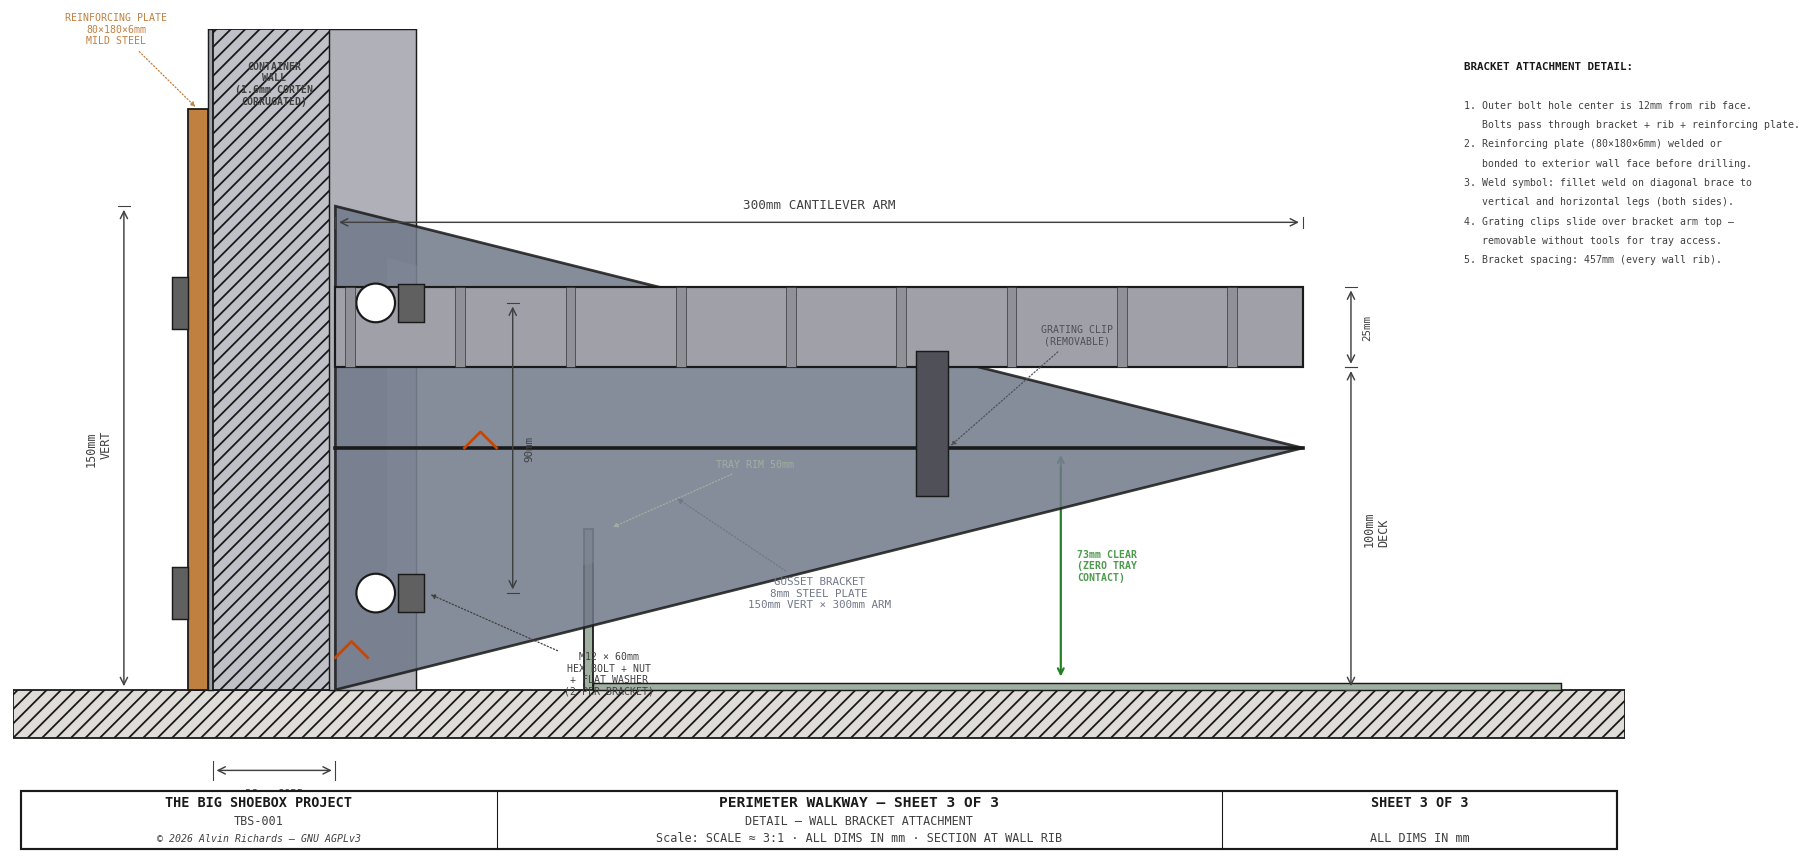
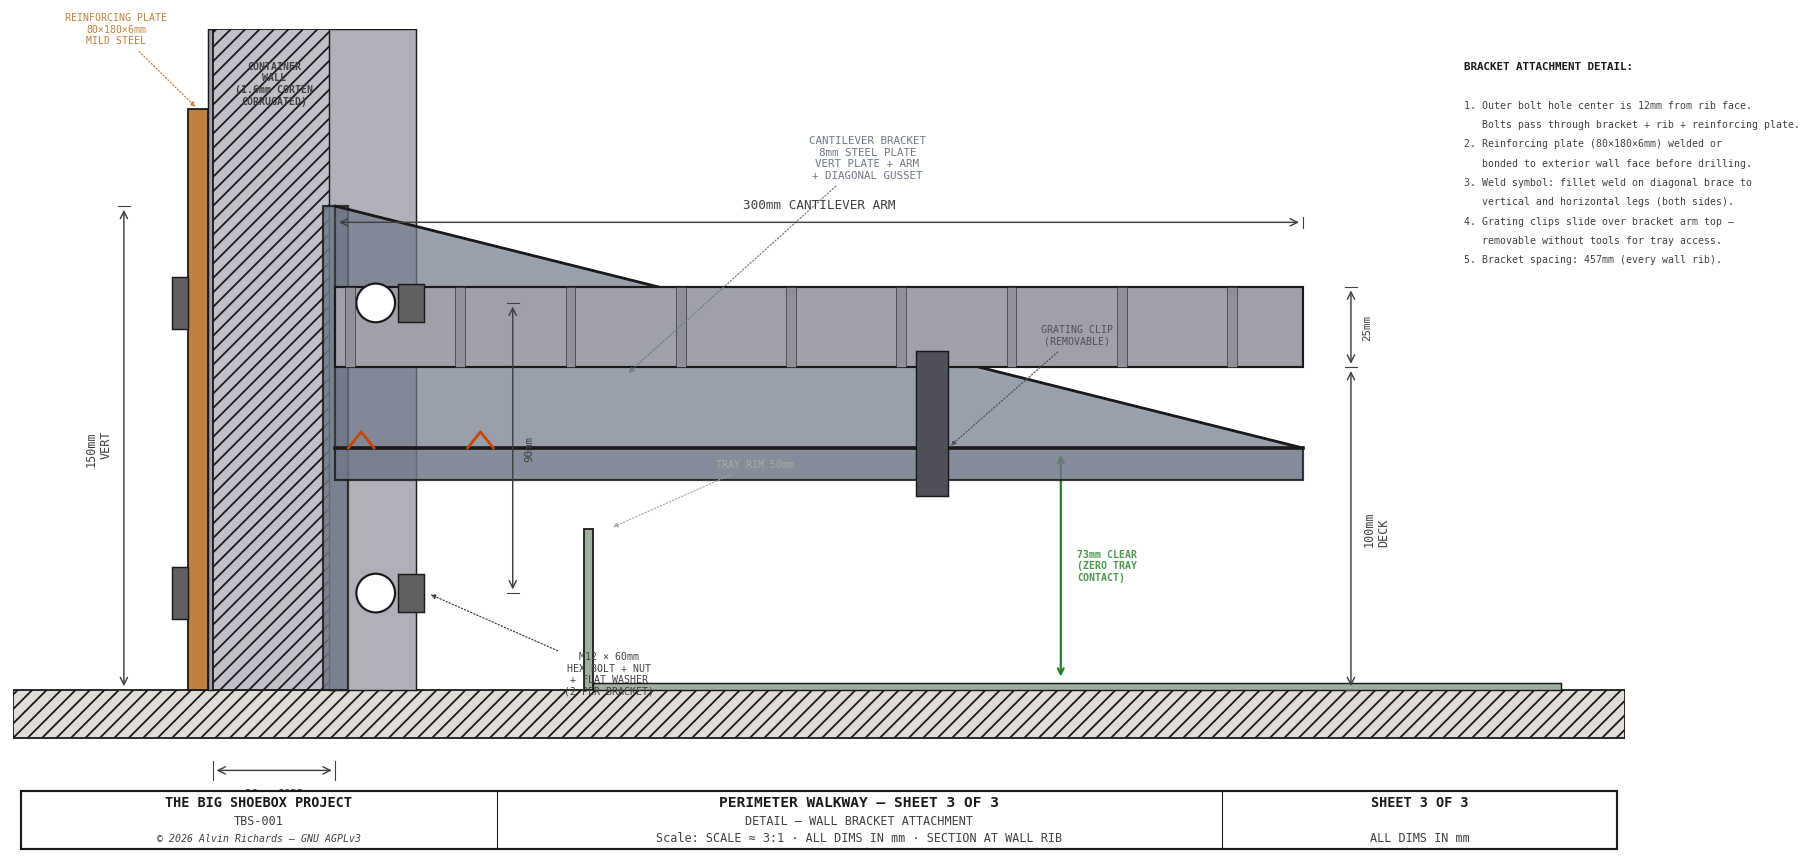
Fix walkway bracket diagram: 3-piece design clears tray rim
The triangular gusset was drawn as a single triangle from floor level,
which visually (and physically) cut through the tray rim. Replaced with
correct 3-piece bracket: vertical mounting plate on wall, horizontal arm
at Z=75mm (above 50mm rim), diagonal gusset entirely above the arm.
Nothing below the arm extends past the wall face.

Changed region(s): [[0.1545, 0.25, 0.7417, 0.8125], [0.4327, 0.1562, 0.5254, 0.2188]]

diff --git a/generate_walkway_diagram.py b/generate_walkway_diagram.py
@@ -150,39 +150,50 @@ def sheet1():
             ha="left", va="bottom", fontsize=5.5, color="#4080C0",
             **FONT, alpha=0.7, zorder=15)
 
-    # ── Cantilever bracket (triangular gusset) ───────────────────────────────
-    # Bracket profile: right-triangle gusset bolted to wall rib
-    # - Vertical leg: from Z=0 to Z=BRKT_VERT (150mm) on wall face
-    # - Horizontal arm: from Yd=0 to Yd=WALKWAY_W (300mm) at Z=BRKT_ARM_H (75mm)
-    # - Diagonal brace: from (0, BRKT_VERT) to (WALKWAY_W, BRKT_ARM_H)
-    # Draw as a filled triangle with plate thickness shown
+    # ── Cantilever bracket (3-piece: vertical plate + arm + diagonal gusset) ──
+    # The bracket is three welded pieces:
+    #   1. Vertical mounting plate: flat against wall, Z=0 to BRKT_VERT (150mm)
+    #      — bolted to wall rib, does NOT project into tray zone
+    #   2. Horizontal arm: welded to vertical plate at Z=BRKT_ARM_H (75mm),
+    #      projects inward 300mm — ABOVE the 50mm tray rim
+    #   3. Diagonal gusset: from top of vertical plate (Z=150) to arm tip (Z=75)
+    #      — entirely above the arm, well clear of tray rim
 
     brkt_arm_z = BRKT_ARM_H  # = 75mm (top of horizontal arm = grate support)
+    ARM_DEPTH  = BRKT_T + 2  # arm cross-section depth shown (visual thickness)
 
-    # Outer triangle (bracket profile)
-    tri_verts = [
-        (sx(0), sy(0)),                          # bottom at wall
-        (sx(0), sy(BRKT_VERT)),                  # top of vertical leg on wall
-        (sx(WALKWAY_W), sy(brkt_arm_z)),          # tip of horizontal arm
-    ]
-    ax.add_patch(Polygon(tri_verts, closed=True,
-                         fc=C_BRKT, ec=C_OUT, lw=1.5, zorder=6, alpha=0.8))
+    # 1. Vertical mounting plate (flat rectangle on wall face)
+    ax.add_patch(Rectangle((sx(-BRKT_T / 2), sy(0)),
+                            sx(BRKT_T), sy(BRKT_VERT),
+                            fc=C_BRKT, ec=C_OUT, lw=1.2, zorder=6, alpha=0.85))
 
-    # Horizontal arm top surface (where grate sits) — emphasize with thicker line
+    # 2. Horizontal arm (projects inward at Z=brkt_arm_z)
+    ax.add_patch(Rectangle((sx(0), sy(brkt_arm_z - ARM_DEPTH)),
+                            sx(WALKWAY_W), sy(ARM_DEPTH),
+                            fc=C_BRKT, ec=C_OUT, lw=1.2, zorder=6, alpha=0.85))
+    # Arm top surface (where grate sits) — emphasize
     ax.plot([sx(0), sx(WALKWAY_W)], [sy(brkt_arm_z), sy(brkt_arm_z)],
             color=C_OUT, lw=2.0, zorder=7)
 
-    # Plate thickness indication — inner triangle (cutout to show it's plate, not solid)
-    inset = BRKT_T * 2  # visual inset for clarity
-    inner_verts = [
-        (sx(inset), sy(inset + 10)),
-        (sx(inset), sy(BRKT_VERT - inset)),
-        (sx(WALKWAY_W - inset * 3), sy(brkt_arm_z)),
+    # 3. Diagonal gusset brace (triangle ABOVE the arm, from wall top to arm tip)
+    gusset_verts = [
+        (sx(0), sy(BRKT_VERT)),               # top of vertical plate
+        (sx(0), sy(brkt_arm_z)),               # where arm meets wall
+        (sx(WALKWAY_W), sy(brkt_arm_z)),       # arm tip
     ]
-    ax.add_patch(Polygon(inner_verts, closed=True,
-                         fc="#8890A0", ec="none", zorder=6, alpha=0.3))
+    ax.add_patch(Polygon(gusset_verts, closed=True,
+                         fc=C_BRKT, ec=C_OUT, lw=1.2, zorder=6, alpha=0.7))
+    # Diagonal edge emphasis
+    ax.plot([sx(0), sx(WALKWAY_W)], [sy(BRKT_VERT), sy(brkt_arm_z)],
+            color=C_OUT, lw=1.5, zorder=7)
 
-    # Bolt holes on vertical leg (2× M12, centered on rib)
+    # Weld symbols at joints (small triangles)
+    for wyd, wz in [(BRKT_T, brkt_arm_z), (WALKWAY_W * 0.15, brkt_arm_z)]:
+        ax.plot([sx(wyd - 4), sx(wyd), sx(wyd + 4)],
+                [sy(wz), sy(wz + 5), sy(wz)],
+                color="#CC4400", lw=1.5, zorder=8)
+
+    # Bolt holes on vertical plate (2× M12)
     bolt_z1 = 30
     bolt_z2 = 120
     bolt_r = 6   # M12 hole radius
@@ -194,16 +205,16 @@ def sheet1():
         ax.plot([sx(0), sx(0)], [sy(bz - 3), sy(bz + 3)], color=C_OUT, lw=0.5, zorder=9)
 
     # Bracket label
-    leader(ax, sx(WALKWAY_W * 0.4), sy(brkt_arm_z - 15),
-           sx(WALKWAY_W * 0.4 + 50), sy(brkt_arm_z - 40),
-           f"CANTILEVER BRACKET\n{BRKT_T}mm STEEL PLATE\nGUSSET (TYP.)",
+    leader(ax, sx(WALKWAY_W * 0.5), sy(brkt_arm_z + (BRKT_VERT - brkt_arm_z) / 2),
+           sx(WALKWAY_W * 0.5 + 30), sy(BRKT_VERT + 15),
+           f"CANTILEVER BRACKET\n{BRKT_T}mm STEEL PLATE\n(VERT PLATE + ARM\n+ DIAGONAL GUSSET)",
            color=C_BRKT, fs=6,
            ha="center", va="center", arrow_style="-|>", font=FONT)
 
     # Bolt label
     leader(ax, sx(5), sy(bolt_z1),
            sx(-40), sy(bolt_z1 - 20),
-           "2× M12 THROUGH-\nBOLTS TO WALL RIB\n(W/ REINFORCING\nPLATE BEHIND)",
+           "2\u00d7 M12 THROUGH-\nBOLTS TO WALL RIB\n(W/ REINFORCING\nPLATE BEHIND)",
            color=C_DIM, fs=5.5,
            ha="center", va="center", arrow_style="-|>", font=FONT)
 
@@ -664,35 +675,38 @@ def sheet3():
            f"TRAY RIM {PROC_TRAY_RIM}mm", color=C_TRAY, fs=5.5,
            ha="center", va="center", arrow_style="-|>", font=FONT)
 
-    # ── Bracket (triangular gusset) ──────────────────────────────────────────
-    tri_verts = [
-        (sx(0), sy(0)),
-        (sx(0), sy(BRKT_VERT)),
-        (sx(WALKWAY_W), sy(BRKT_ARM_Z)),
-    ]
-    ax.add_patch(Polygon(tri_verts, closed=True,
-                         fc=C_BRKT, ec=C_OUT, lw=1.5, zorder=6, alpha=0.85))
+    # ── Bracket (3-piece: vertical plate + arm + diagonal gusset above arm) ──
+    ARM_DEPTH = BRKT_T + 2  # arm cross-section depth (visual)
 
-    # Plate thickness indication
-    inset = BRKT_T * 2
-    inner_verts = [
-        (sx(inset), sy(inset + 10)),
-        (sx(inset), sy(BRKT_VERT - inset)),
-        (sx(WALKWAY_W - inset * 3), sy(BRKT_ARM_Z)),
-    ]
-    ax.add_patch(Polygon(inner_verts, closed=True,
-                         fc="#8890A0", ec="none", zorder=6, alpha=0.3))
+    # 1. Vertical mounting plate (flat on wall rib face)
+    ax.add_patch(Rectangle((sx(-BRKT_T / 2), sy(0)),
+                            sx(BRKT_T), sy(BRKT_VERT),
+                            fc=C_BRKT, ec=C_OUT, lw=1.2, zorder=6, alpha=0.85))
 
-    # Horizontal arm top surface
+    # 2. Horizontal arm (projects inward at Z=BRKT_ARM_Z)
+    ax.add_patch(Rectangle((sx(0), sy(BRKT_ARM_Z - ARM_DEPTH)),
+                            sx(WALKWAY_W), sy(ARM_DEPTH),
+                            fc=C_BRKT, ec=C_OUT, lw=1.2, zorder=6, alpha=0.85))
+    # Arm top surface
     ax.plot([sx(0), sx(WALKWAY_W)], [sy(BRKT_ARM_Z), sy(BRKT_ARM_Z)],
             color=C_OUT, lw=2.0, zorder=7)
 
-    # Weld symbol on diagonal brace (simplified — triangle at joint)
-    # Show small weld marks where diagonal meets vertical and horizontal
-    weld_sz = 5
-    for wx_pos, wz_pos in [(5, 10), (WALKWAY_W * 0.15, BRKT_ARM_Z)]:
-        ax.plot([sx(wx_pos - weld_sz), sx(wx_pos), sx(wx_pos + weld_sz)],
-                [sy(wz_pos), sy(wz_pos + weld_sz), sy(wz_pos)],
+    # 3. Diagonal gusset brace (triangle ABOVE the arm)
+    gusset_verts = [
+        (sx(0), sy(BRKT_VERT)),
+        (sx(0), sy(BRKT_ARM_Z)),
+        (sx(WALKWAY_W), sy(BRKT_ARM_Z)),
+    ]
+    ax.add_patch(Polygon(gusset_verts, closed=True,
+                         fc=C_BRKT, ec=C_OUT, lw=1.2, zorder=6, alpha=0.7))
+    # Diagonal edge emphasis
+    ax.plot([sx(0), sx(WALKWAY_W)], [sy(BRKT_VERT), sy(BRKT_ARM_Z)],
+            color=C_OUT, lw=1.5, zorder=7)
+
+    # Weld symbols at joints
+    for wyd, wz in [(BRKT_T, BRKT_ARM_Z), (WALKWAY_W * 0.15, BRKT_ARM_Z)]:
+        ax.plot([sx(wyd - 4), sx(wyd), sx(wyd + 4)],
+                [sy(wz), sy(wz + 5), sy(wz)],
                 color="#CC4400", lw=1.5, zorder=8)
 
     # Bolt holes
@@ -718,10 +732,10 @@ def sheet3():
            color=C_DIM, fs=5.5,
            ha="center", va="center", arrow_style="-|>", font=FONT)
 
-    # Bracket label
-    leader(ax, sx(WALKWAY_W * 0.35), sy(BRKT_ARM_Z - 15),
-           sx(WALKWAY_W * 0.5), sy(BRKT_ARM_Z - 45),
-           f"GUSSET BRACKET\n{BRKT_T}mm STEEL PLATE\n{BRKT_VERT}mm VERT \u00d7 {WALKWAY_W}mm ARM",
+    # Bracket label (point at gusset area above arm)
+    leader(ax, sx(WALKWAY_W * 0.3), sy(BRKT_ARM_Z + (BRKT_VERT - BRKT_ARM_Z) * 0.3),
+           sx(WALKWAY_W * 0.55), sy(BRKT_VERT + 15),
+           f"CANTILEVER BRACKET\n{BRKT_T}mm STEEL PLATE\nVERT PLATE + ARM\n+ DIAGONAL GUSSET",
            color=C_BRKT, fs=6,
            ha="center", va="center", arrow_style="-|>", font=FONT)
 
